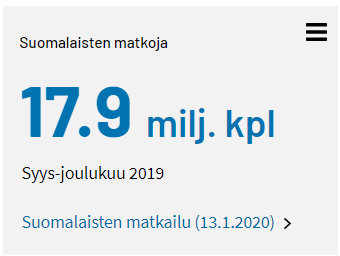
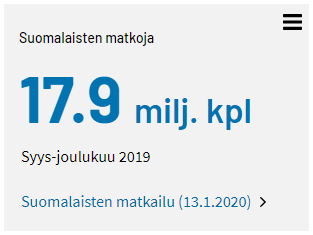
Content update
Elementtien menu -part added.

diff --git a/README.md b/README.md
@@ -370,6 +370,31 @@ Varoitus-bannerin tyylit
 
 ### Elementtien menut
 
+![Avainluvun avattu menu.](images/avainluku_menu.png)
+
+Avainlukujen, tilastotaulukoiden ja tilastokuvioiden oikeasta yläkulmasta löytyy menu-ikoni. Menu sisältää linkin tietokantaan siihen tietokantataulukkoon, josta elementin data on peräisin, datan lataamisen eri formaateissa, linkin elementin jakamiseen sosiaalisessa mediassa sekä suosikkeihin lisäämisen toiminnon (tulossa verkkosivustolle myöhemmin). 
+
+Kun menun avaa, menu-ikoni muuttuu ruksiksi. Ruksista menun saa kiinni. Menun sulkeuduttua ikoni palaa jälleen menu-ikoniksi. Näppäimistökäytössä menun avaaminen, sulkeminen, selaaminen ja valintojen tekeminen toimii samalla tavalla kuin tavalliset pudotusvalikot, ks. kohta Pudotusvalikoiden saavutettavuus. Menu aukeaa menu-ikonin alle elementtinsä päälle sekä pienillä että isoilla näytöillä. 
+
+Menussa ensimmäisenä oleva Taulukko tietokannassa -linkki vie tietokantaan siihen tietokantataulukkoon, josta elementin data on peräisin. Koska tietokantataulukko sijaitsee eri verkkopalvelussa, linkki on ulkoinen linkki, ks. kohta Ulkoinen linkki. 
+
+Dataan pohjautuvien elementtien menuissa on tarjolla ainakin datan lataaminen taulukkomuodossa: mm. xlsx- ja csv-formaateissa. Jos elementti on tilastokuvio, tarjolla on myös datan lataaminen kuvamuodossa: mm. svg- ja png-formaateissa. Formaatti ilmoitetaan suluissa Lataa taulukko - tai Lataa kuvio -tekstien perässä. 
+
+![Tilastokuvion menu sisältää datan lataamisen taulukkomuodon lisäksi kuvamuodossa.](images/menu_kuvio.png)
+
+|                                      | Font            | Color   | Background-color | Border  | Height                       | Width                        |
+| ------------------------------------ | --------------- | ------- | ---------------- | ------- | ---------------------------- | ---------------------------- |
+| Menu-ikoni                           |                 | #000000 |                  |         | (riippuu valitusta ikonista) | (riippuu valitusta ikonista) |
+| Ruksi-ikoni                          |                 | #000000 |                  |         | (riippuu valitusta ikonista) | (riippuu valitusta ikonista) |
+| Menun laatikko                       |                 |         | #ffffff          | #c9c9c9 |                              |                              |
+| Menun horisontaalinen divider        |                 |         |                  | #c9c9c9 |                              |                              |
+| Linkki tietokantataulukkoon          | Ulkoinen linkki |         |                  |         |                              |                              |
+| Muiden toimintojen teksti            | Leipäteksti     |         |                  |         |                              |                              |
+| Menun listan kohdan hover                   |                 |         | #f2f2f2          |         |                              |                              |
+| Menun listan kohta selected/pressed-tilassa |                 |         | #f2f2f2          |         |                              |                              |
+
+
+
 ### Info-laatikko
 
 Info-laatikko on väritaustainen muusta sisällöstä erottuva elementti. Sen sisältö liittyy sivun muuhun sisältöön, mutta sen halutaan erottautuvan muusta sisällöstä.  
@@ -596,7 +621,7 @@ Mobiilissa ja pienillä näytöillä laatikon sisältö menee allekkain:
 
 ![Mobiilissa laatikon sisältö on järjestäytynyt allekkain.](images/lyhenteidenselitykset_laatikko_mobiili.png)
 
-Isoilla näytöillä laatikko ja laatikon sisältö sisältö levittäytyy sivusuunnassa:
+Isoilla näytöillä laatikko ja laatikon sisältö sisältö levittäytyy sivusuunnassa. Tietokantataulukoiden yhteydessä se on yhtä leveä kuin tietokantataulukoiden väliset dividerit eli se asettuu niiden kanssa samaan linjaan:
 
 ![Isolla näytöllä laatikko ja sen sisältö on levittäytynyt sivusuunnassa.](images/lyhenteidenselitykset_laatikko_desktop.png)
 
